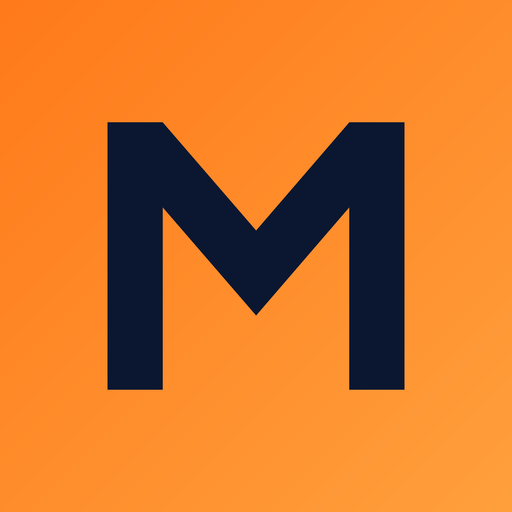
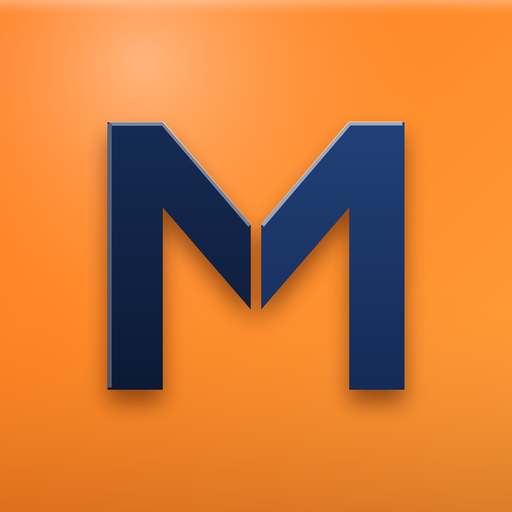
Add files via upload

diff --git a/css/style.css b/css/style.css
@@ -27,8 +27,8 @@ small,.mut{color:var(--mut)}.small{font-size:13px}
 .side{position:sticky;top:0;height:100vh;overflow:auto;padding:20px 16px;display:flex;flex-direction:column;gap:18px;border-inline-end:1px solid var(--line);background:rgba(5,12,26,.72);-webkit-backdrop-filter:blur(14px);backdrop-filter:blur(14px)}
 .brand{display:flex;align-items:center;gap:10px}
 .brand b{display:block;font-weight:800;letter-spacing:.06em;font-size:16px}.brand small{font-size:11px;letter-spacing:.12em;text-transform:uppercase}
-.logo{width:40px;height:40px;border-radius:12px;display:grid;place-items:center;background:linear-gradient(135deg,var(--or),var(--or2));box-shadow:0 8px 20px rgba(255,122,26,.35)}
-.logo svg{width:24px;height:auto;fill:var(--on-or)}
+.logo{width:40px;height:40px;border-radius:12px;display:grid;place-items:center;background:radial-gradient(circle at 28% 12%,rgba(255,255,255,.42),transparent 62%),linear-gradient(135deg,var(--or),var(--or2));box-shadow:inset 0 1px 0 rgba(255,255,255,.5),inset 0 -8px 14px rgba(150,50,0,.28),0 8px 20px rgba(255,122,26,.35)}
+.logo svg{width:24px;height:auto;filter:drop-shadow(0 2px 2px rgba(88,32,0,.55))}
 #nav{display:flex;flex-direction:column;gap:4px;flex:1}
 .nh{margin:14px 10px 4px;font-size:11px;letter-spacing:.14em;text-transform:uppercase;color:var(--mut)}
 .nl{display:flex;align-items:center;gap:10px;min-height:44px;padding:8px 12px;border-radius:12px;color:var(--mut);font-weight:500;transition:background .15s,color .15s}

diff --git a/js/config.js b/js/config.js
@@ -3,8 +3,8 @@
    For every release: bump `version` here AND CACHE_VERSION in sw.js,
    otherwise installed phones keep serving the old cached files.
    ============================================================ */
-const APP = { name: 'THE MANAGER', version: '0.9.0-beta.4', released: '2026-11-05' };
+const APP = { name: 'THE MANAGER', version: '0.9.0-beta.5', released: '2026-11-05' };
 
-/* Logo mark: a bold geometric "M" (single path, one colour = currentColor-style fill set by CSS).
-   Same shape as src/icons/icon.svg (app icon). */
-const LOGO_SVG = '<svg viewBox="108 122 296 268" aria-hidden="true"><path d="M116 382V130H168L256 232L344 130H396V382H344V210L256 312L168 210V382Z"/></svg>';
+/* Logo mark: a bold geometric "M" built from two facets (left darker, right lighter) with a centre slit and light edges.
+   Same shape as src/icons/icon.svg (app icon). Flat colours on purpose: gradient ids would clash when the logo appears twice. */
+const LOGO_SVG = '<svg viewBox="108 122 296 268" aria-hidden="true"><path fill="#12234A" d="M116 382V130H168L251 226V306L168 210V382Z"/><path fill="#1E3F73" d="M396 382V130H344L261 226V306L344 210V382Z"/><path fill="none" stroke="#fff" stroke-opacity=".4" stroke-width="5" stroke-linecap="round" stroke-linejoin="round" d="M118 131H168L250 227M394 131H344L262 227"/></svg>';

diff --git a/sw.js b/sw.js
@@ -1,6 +1,6 @@
 /* Service worker: makes the app work offline (cache-first). Each file is cached separately, so one missing file cannot stop the worker from installing (which would also block installing the app).
    IMPORTANT: bump CACHE_VERSION every time you change any file, or users keep the old version. */
-const CACHE_VERSION = 'the-manager-v8';
+const CACHE_VERSION = 'the-manager-v9';
 const ASSETS = ['./', 'index.html', 'manifest.webmanifest', 'css/style.css', 'icons/icon.svg', 'icons/icon-192.png', 'icons/icon-512.png',
   'js/i18n.js', 'js/flags.js', 'js/config.js', 'js/install.js', 'js/autobackup.js', 'js/db.js', 'js/auth.js', 'js/data.js', 'js/calc.js', 'js/charts.js', 'js/notify.js', 'js/views.js', 'js/app.js'];
 
